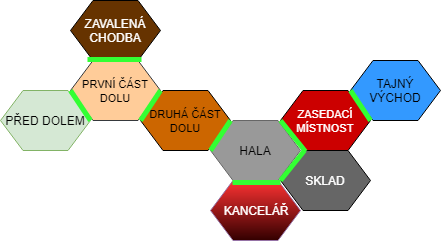
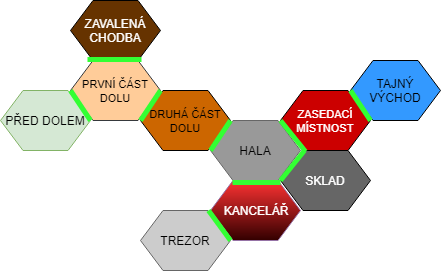
Přidána figurka pohybující se po herním plánu

Changed region(s): [[0.0, 0.029, 1.0, 1.0]]

diff --git a/src/main/java/com/github/kristianzurav/adventura/ui/HomeController.java b/src/main/java/com/github/kristianzurav/adventura/ui/HomeController.java
@@ -47,6 +47,7 @@ public class HomeController extends GridPane implements Observer {
 	@FXML private ImageView pacidlo;
 	@FXML private ImageView lopata;
 	@FXML private ImageView relikvie;
+	@FXML private ImageView figurka;
 	private IHra hra;
 	private Napoveda napoveda = new Napoveda ();
 	
@@ -114,6 +115,8 @@ public class HomeController extends GridPane implements Observer {
 		pacidlo.setVisible(false);
 		relikvie.setVisible(false);
 		lopata.setVisible(false);
+		figurka.setTranslateX(hra.getHerniPlan().getAktualniProstor().getX());
+		figurka.setTranslateY(hra.getHerniPlan().getAktualniProstor().getY());
 	}
 
 	@Override
@@ -126,6 +129,8 @@ public class HomeController extends GridPane implements Observer {
 		pacidlo.setVisible(hra.getBatoh().getVecUi("páčidlo"));
 		relikvie.setVisible(hra.getBatoh().getVecUi("relikvie"));
 		lopata.setVisible(hra.getBatoh().getVecUi("lopata"));
+		figurka.setTranslateX(hra.getHerniPlan().getAktualniProstor().getX());
+		figurka.setTranslateY(hra.getHerniPlan().getAktualniProstor().getY());
 		
 		
 	}

diff --git a/src/main/java/com/github/kristianzurav/adventura/logika/HerniPlan.java b/src/main/java/com/github/kristianzurav/adventura/logika/HerniPlan.java
@@ -85,6 +85,7 @@ public class HerniPlan  extends Observable
         Vec relikvie = new Vec ("relikvie", true);
         Vec dvereKancelare = new Vec ("dveře_kanceláře",false);
         Vec police = new Vec ("police",false);
+        
         dul2.vlozVec (oceloveDvere);
         dul2.vlozVec (zaval);
         trezor.vlozVec (police);
@@ -95,6 +96,17 @@ public class HerniPlan  extends Observable
         kancelar.vlozVec (dvereTrezoru);     
         trezor.vlozVec (relikvie);
         hala.vlozVec (dvereKancelare);
+        
+        venku.setSouradnice(-155,-15);
+        dul1.setSouradnice(-93,-40);
+        dul2.setSouradnice (-30,-15);
+        zavalenaChodba.setSouradnice (-93,-95); 
+        hala.setSouradnice (33,14);
+        sklad.setSouradnice (92,40);
+        kancelar.setSouradnice (31,68);     
+        trezor.setSouradnice (-30,90);    
+        zasedacka.setSouradnice (93,-15);
+        tajnyVychod.setSouradnice (155,-40);
     }
     
     /**

diff --git a/src/main/java/com/github/kristianzurav/adventura/logika/Prostor.java b/src/main/java/com/github/kristianzurav/adventura/logika/Prostor.java
@@ -26,6 +26,8 @@ public class Prostor
     private Set<Prostor> vychody;   // obsahuje sousední místnosti
     private Map<String, Vec> veci;
     private Set<Prostor> otevreneVychody; 
+    private double souradniceX;
+    private double souradniceY;
 
     /**
      * Vytvoření prostoru se zadaným popisem, např. "kuchyň", "hala", "trávník
@@ -42,6 +44,8 @@ public class Prostor
         this.jeUzamceno = jeUzamceno;
         vychody = new HashSet<> ();
         veci = new HashMap<> ();
+        souradniceX=-155;
+        souradniceY=-15;
     }
 
     /**
@@ -291,6 +295,21 @@ public class Prostor
     public String toString() {
     	return getNazev();
     }
+    
+    public void setSouradnice(double x, double y) {
+    	 souradniceX=x;
+    	 souradniceY=y;
+    }
+    
+    public double getX() {
+   	 	return souradniceX;
+   	 
+   }
+    public double getY() {
+      	 return souradniceY;
+      	 
+      }
+    
     
     
 }

diff --git a/src/main/java/com/github/kristianzurav/adventura/logika/PrikazJdi.java b/src/main/java/com/github/kristianzurav/adventura/logika/PrikazJdi.java
@@ -48,7 +48,7 @@ public class PrikazJdi implements IPrikaz {
         Prostor sousedniProstor = plan.getAktualniProstor ().vratSousedniProstor (smer);
         
         if (sousedniProstor == null) {return "Tam se odsud jít nedá!";}
-        if (sousedniProstor.getUzamceni ()) {return "Tam teď jít nemůžeš, zkus nejdřív použít nějakou věc na dveře či překážku.";} 
+        if (sousedniProstor.getUzamceni ()) {return "Tam teď jít nemůžeš, \n zkus nejdřív použít nějakou věc na dveře či překážku.";} 
         if ((sousedniProstor.getNazev ().equals ("tajný_východ")) && (batoh.getVec ("relikvie") == null)) {return "Zatím nemůžeš odejít, potřebuješ najít a vzít relikvii.";}
                 else 
                 {
